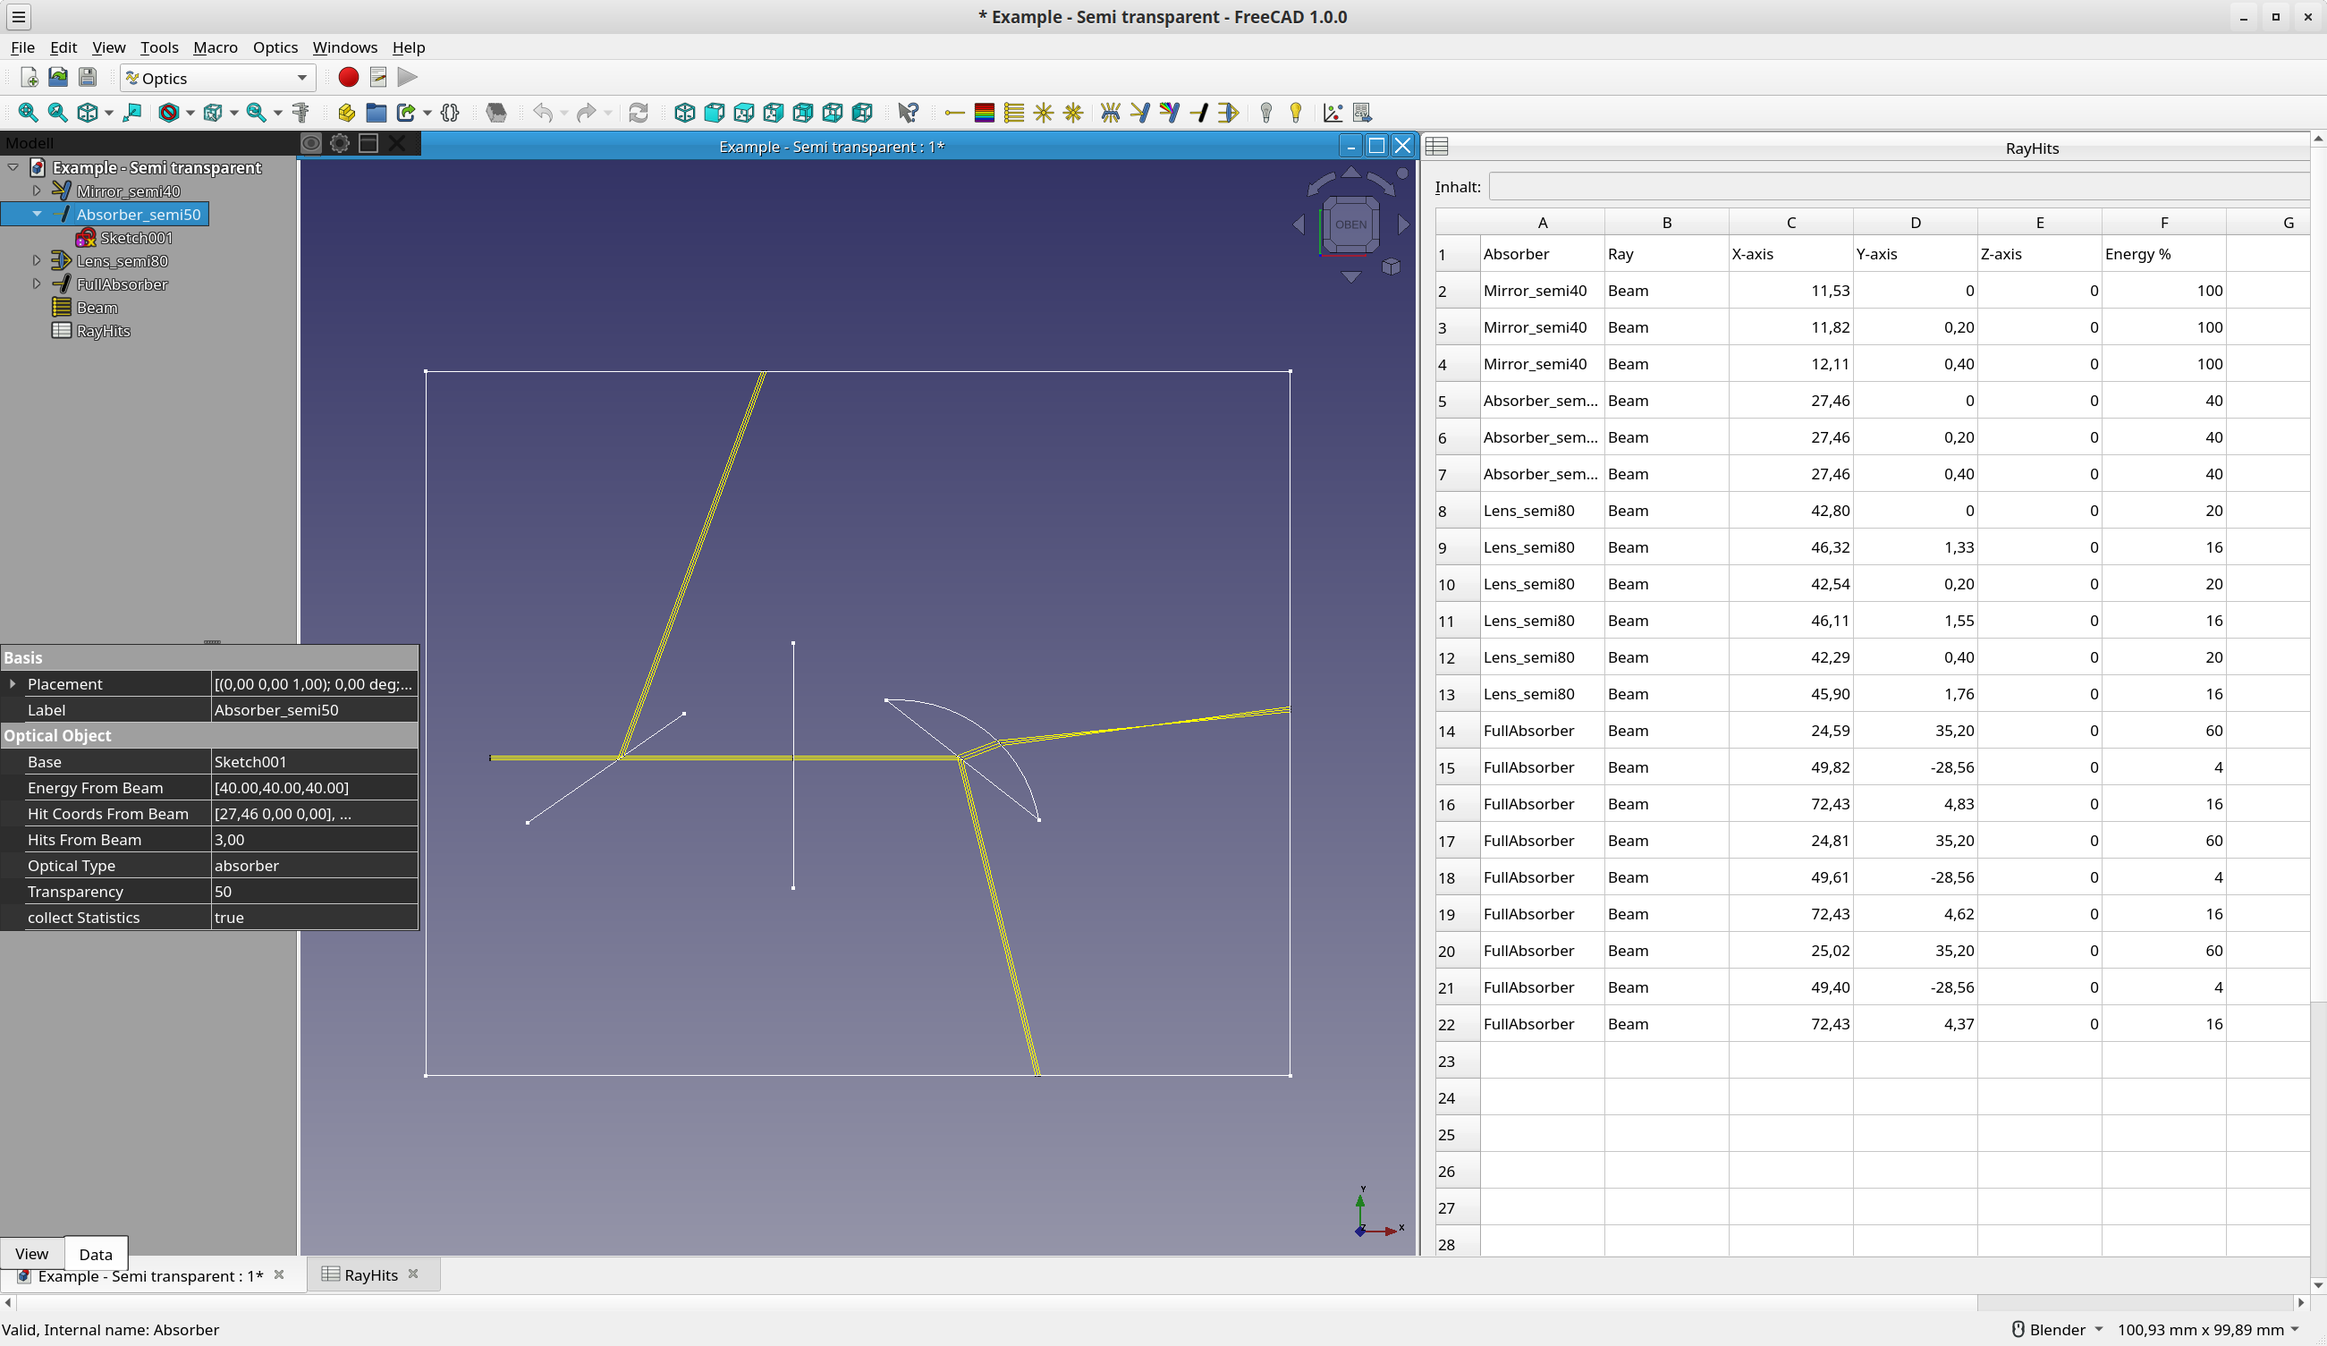
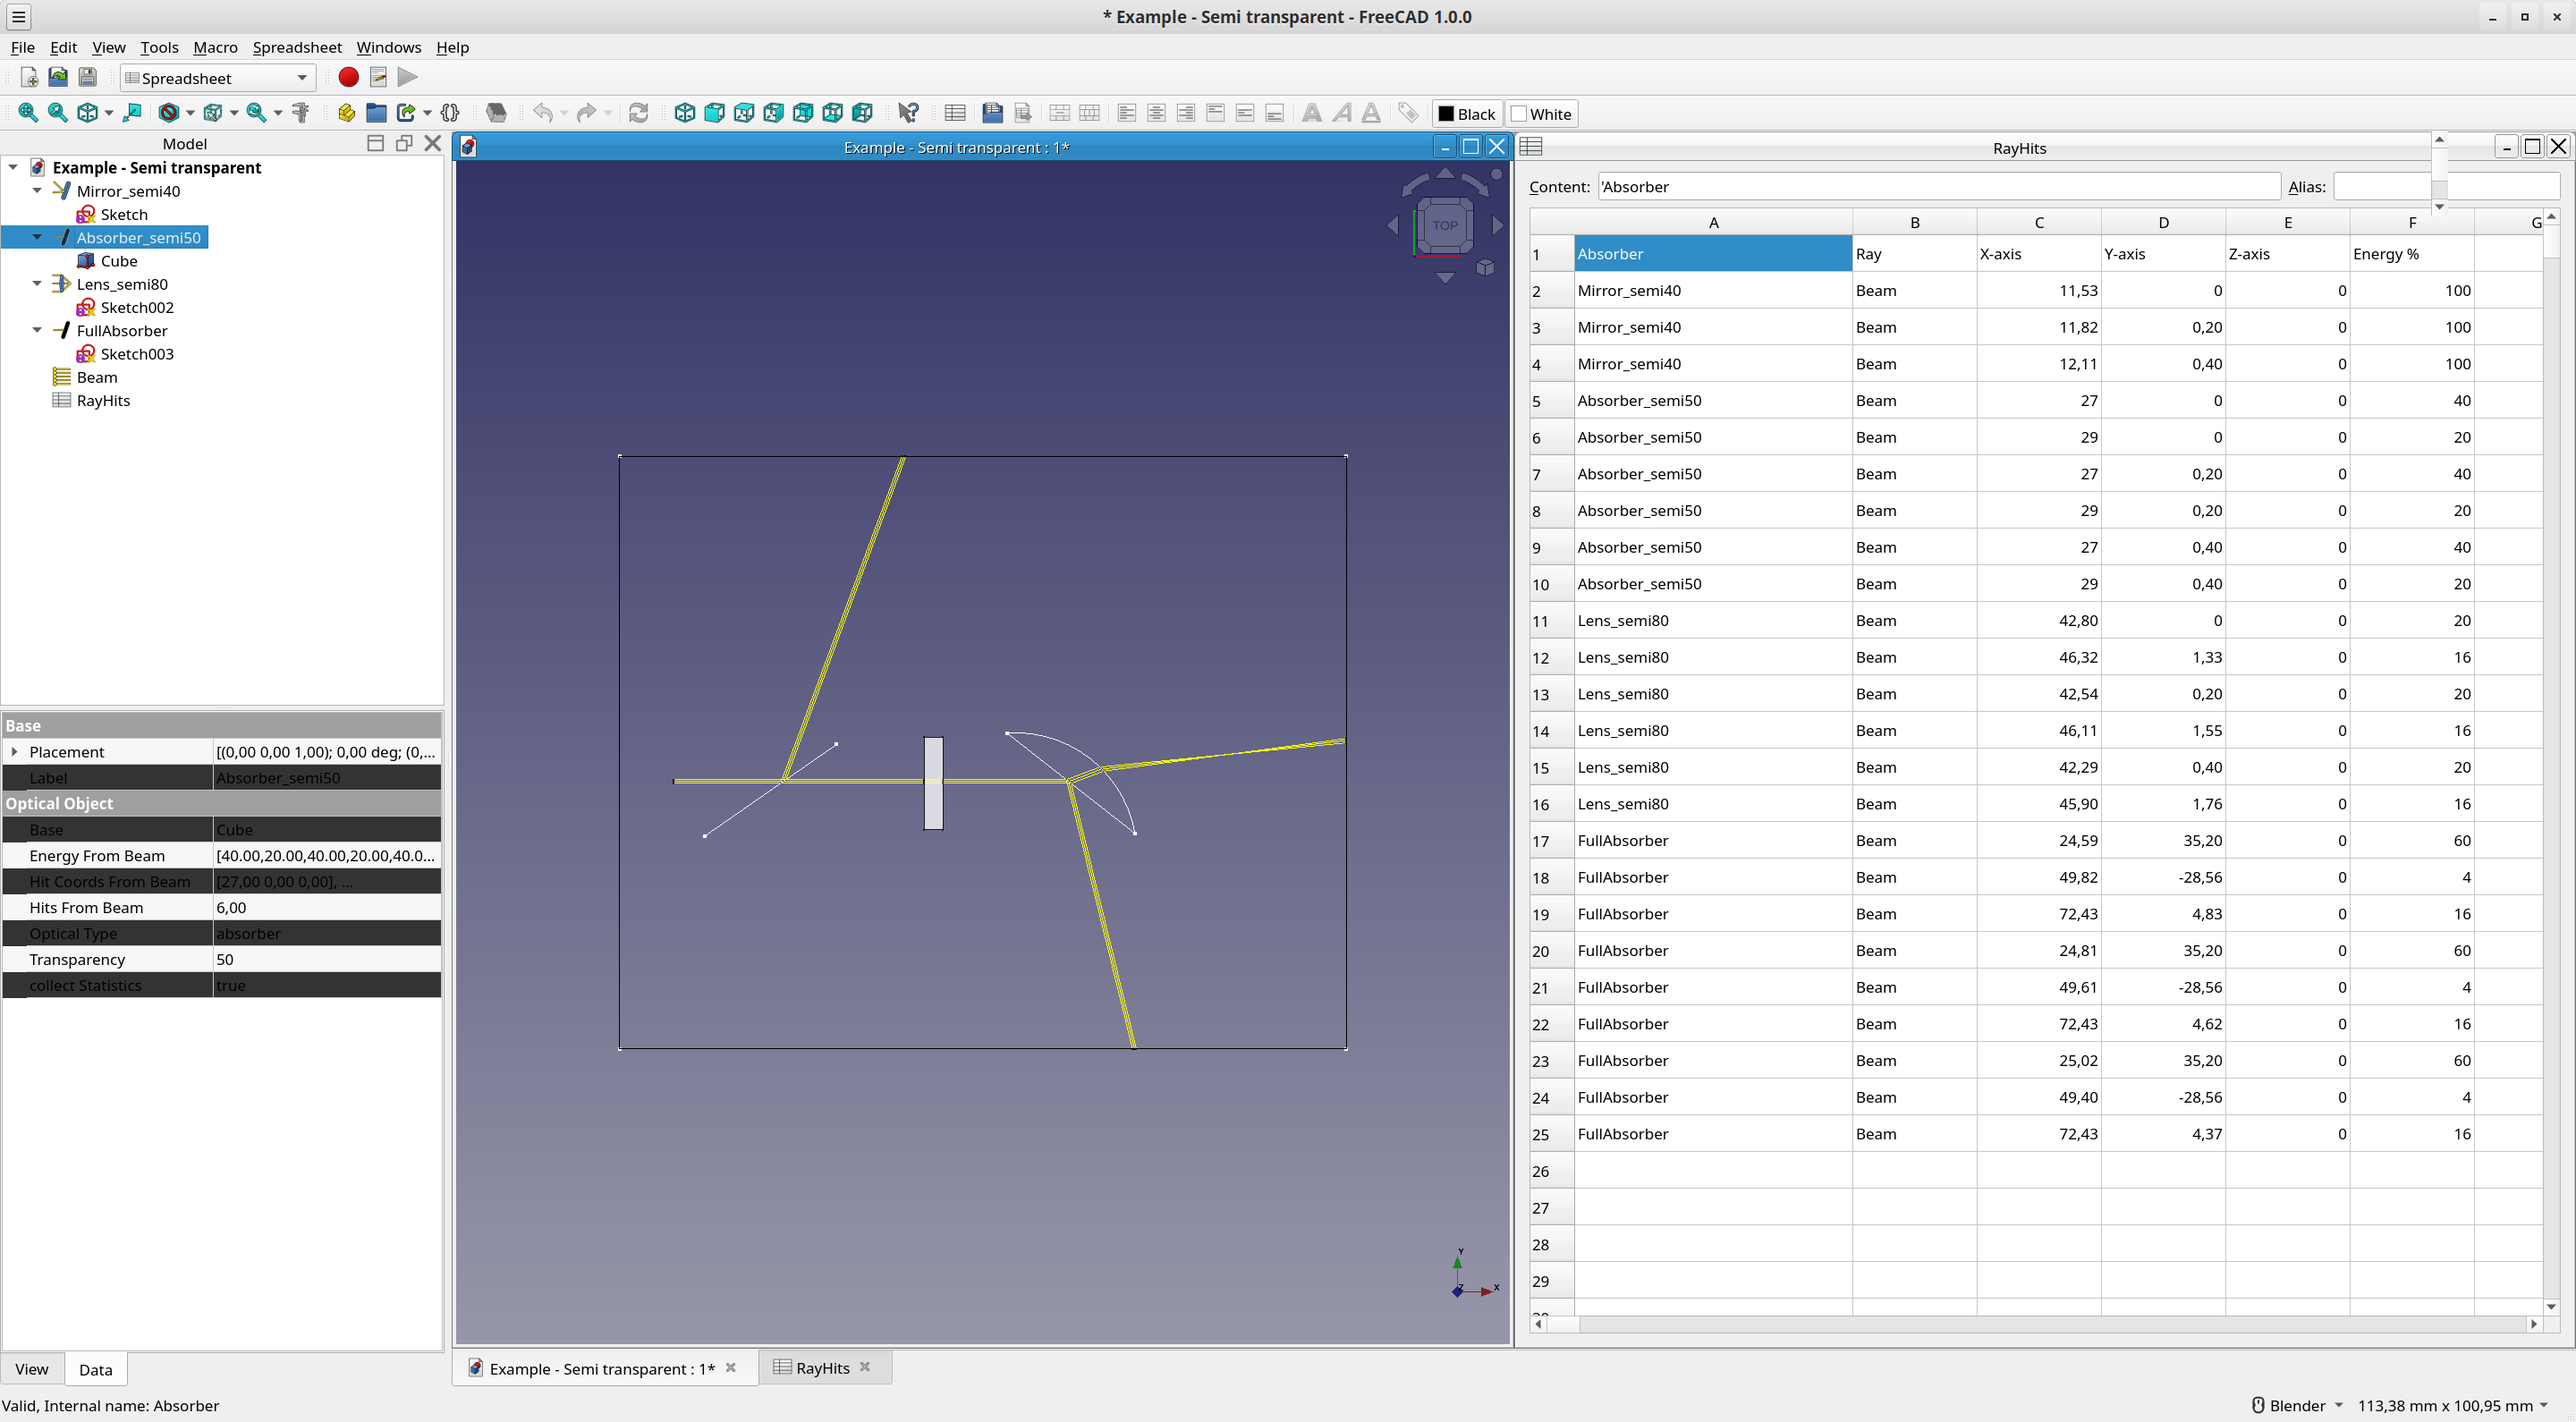
support 3D semi transparent absorbers and mirrors

diff --git a/examples/example_semi.py b/examples/example_semi.py
@@ -1,4 +1,4 @@
-from FreeCAD import Vector
+from FreeCAD import Vector, Placement, Rotation
 import Sketcher
 import Part
 import FreeCAD as App
@@ -15,15 +15,6 @@ def createSketch_Sketch(doc):
     geo0 = Sketch.addGeometry(Part.LineSegment(Vector (17.57187, 4.200229, 0.0), Vector (3.394269999999999, -5.662041000000004, 0.0)))
     Sketch.AttacherEngine = 'Engine Plane'
     return Sketch
-
-def createSketch_Sketch001(doc):
-    Sketch001 = doc.addObject('Sketcher::SketchObject', 'Sketch001')
-    geo0 = Sketch001.addGeometry(Part.LineSegment(Vector (27.457035, 10.623341, 0.0), Vector (27.457035, -11.596225999999998, 0.0)))
-    Sketch001.addConstraint(Sketcher.Constraint('Vertical', geo0))
-    Sketch001.AttacherEngine = 'Engine Plane'
-    Sketch001.ViewObject.LineColor = (0.501960813999176, 0.501960813999176, 0.501960813999176, 0.0)
-    Sketch001.ViewObject.LineColorArray = [(0.501960813999176, 0.501960813999176, 0.501960813999176, 0.0)]
-    return Sketch001
 
 def createSketch_Sketch002(doc):
     Sketch002 = doc.addObject('Sketcher::SketchObject', 'Sketch002')
@@ -62,8 +53,12 @@ def make_semi():
     Mirror_semi40 = OpticsWorkbench.makeMirror([Sketch], True, 40)
     Mirror_semi40.Label = "Mirror_semi40"
 
-    Sketch001 = createSketch_Sketch001(doc)
-    Absorber_semi50 = OpticsWorkbench.makeAbsorber([Sketch001], True, 50)
+    Cube = doc.addObject('Part::Box', 'Cube')
+    Cube.Height = 2.0
+    Cube.Length = 2.0
+    Cube.Placement = Placement(Vector(27.0, -5.0, -1.0), Rotation (0.0, 0.0, 0.0, 1.0))
+    Cube.ViewObject.Transparency = 50
+    Absorber_semi50 = OpticsWorkbench.makeAbsorber([Cube], True, 50)
     Absorber_semi50.Label = "Absorber_semi50"
 
     Sketch002 = createSketch_Sketch002(doc)

diff --git a/Ray.py b/Ray.py
@@ -596,6 +596,9 @@ class RayWorker:
 
             if nearest_obj.OpticalType == 'mirror' or nearest_obj.OpticalType == 'absorber':
                 if nearest_obj.Transparency > 0:
+                    if self.isInsideSolid(origin, nearest_obj):
+                        P_pass = energy
+                        
                     dNewRays.append((-dRay, P_pass))
 
             elif nearest_obj.OpticalType == 'lens':
@@ -735,6 +738,14 @@ class RayWorker:
 
         return nvec
 
+    def isInsideSolid(self, origin, lens):
+        for b in lens.Base:
+            for sol in b.Shape.Solids:
+                if sol.isInside(origin, EPSILON, True):
+                    return True
+                
+        return False
+                
     def isInsideLens(self, isec_struct, origin, lens):
         nr_solids = 0
         for b in lens.Base:
@@ -745,7 +756,7 @@ class RayWorker:
 
         if nr_solids == 0:
             for isec in isec_struct:
-                if lens == isec[0]:
+                if lens == isec[0]:                    
                     return len(isec[1]) % 2 == 1
 
         return False
